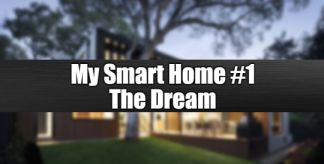
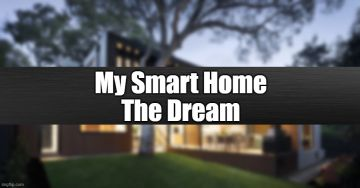
Removed number from post

diff --git a/src/posts/2021-07-04-smart-home-dream/index.md b/src/posts/2021-07-04-smart-home-dream/index.md
@@ -1,6 +1,6 @@
 ---
-title: "My Smart Home #1 - The Dream"
-description: I want to try my hand at making my home a smart home. This is what I'm planning, and the challenges I'm setting myself.
+title: "My Smart Home - The Dream"
+description: I want to try my hand at making my home a smart home, with automations and IoT gadgets. Here's is what I'm planning, and the challenges I'm setting myself.
 image: featured.jpg
 imageThumbnail: featured-thumbnail.jpg
 date: 2021-07-04
